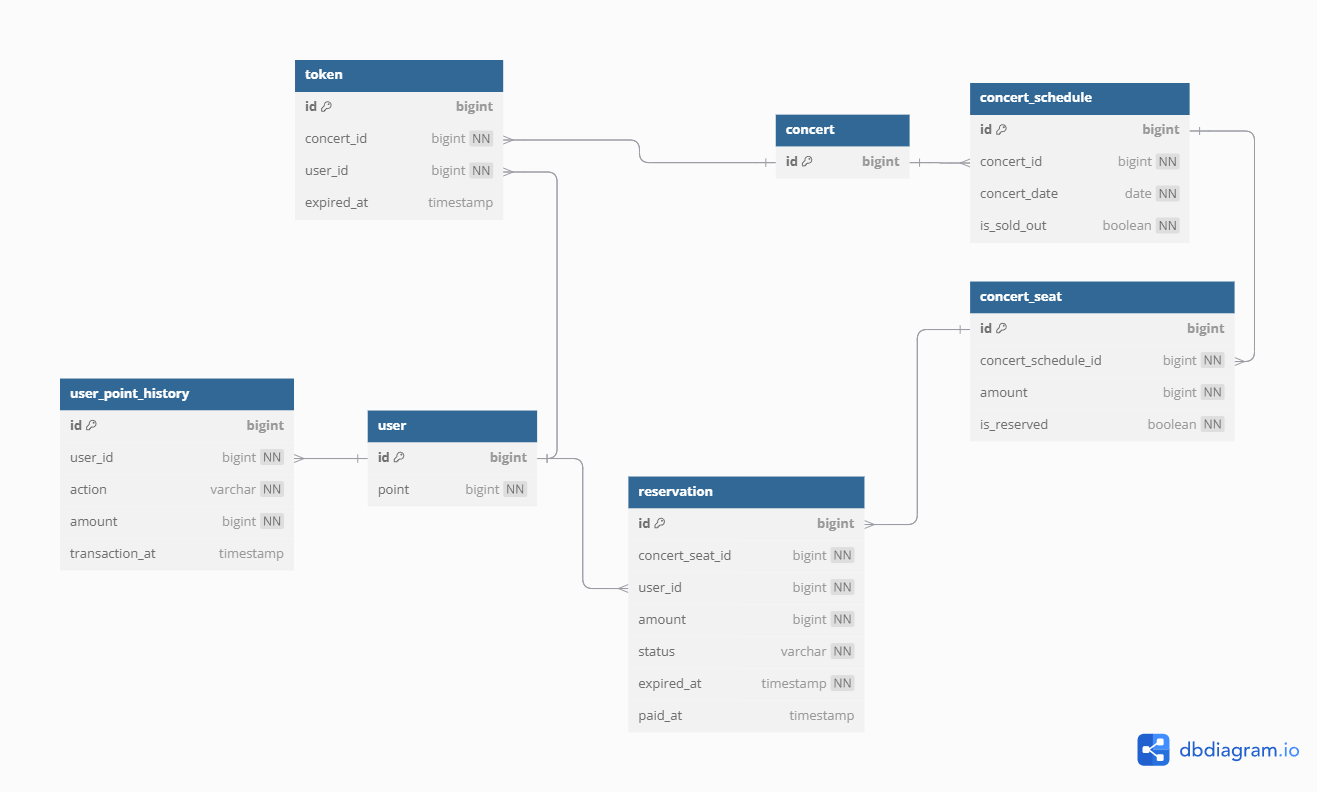
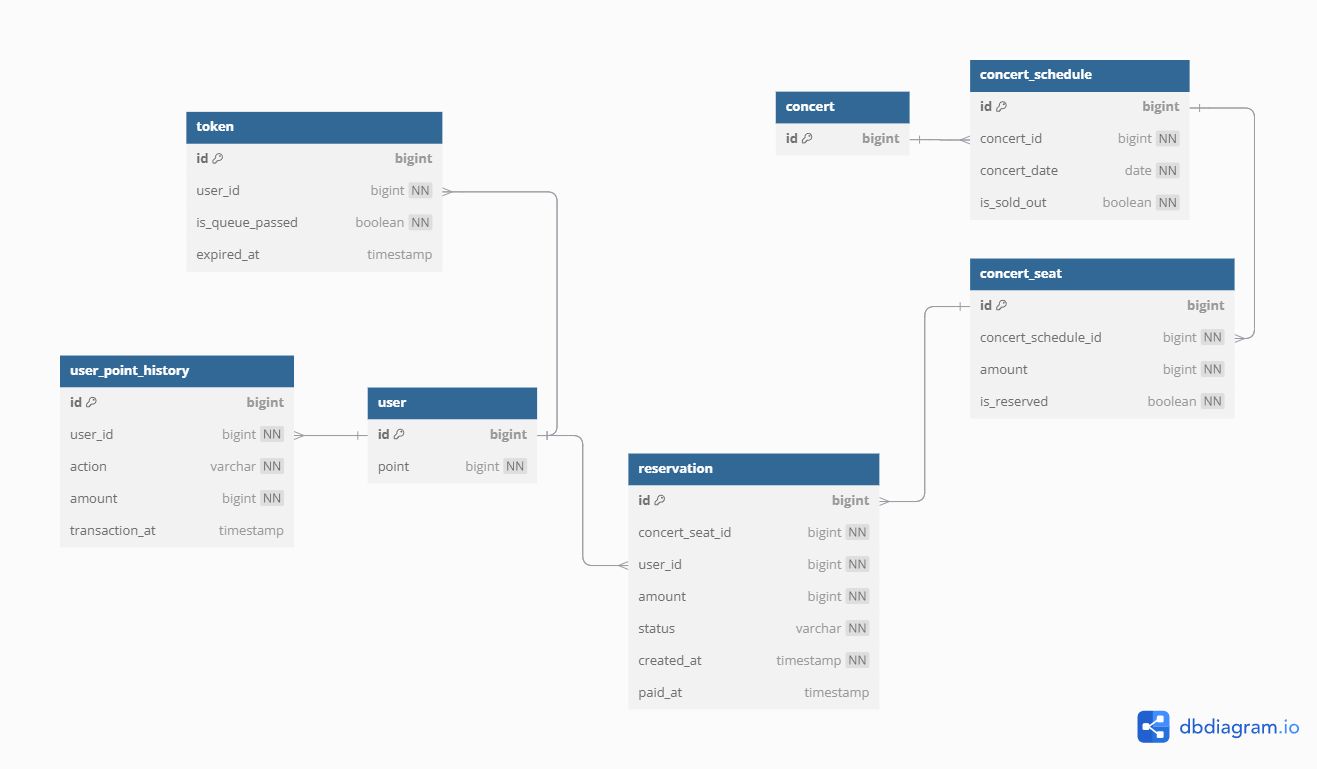
feat: 스키마 및 시퀀스 다이어그램 변경

diff --git a/src/main/java/kr/hhplus/be/server/api/token/domain/Token.java b/src/main/java/kr/hhplus/be/server/api/token/domain/Token.java
@@ -16,11 +16,9 @@ public class Token {
 	@GeneratedValue(strategy = GenerationType.IDENTITY)
 	private long id;
 
-	private long concertId;
-
 	private long userId;
 
-	private boolean isActivated;
+	private boolean isQueuePassed;
 
 	private Instant expiredAt;
 

diff --git a/docs/sequence_diagram.md b/docs/sequence_diagram.md
@@ -2,11 +2,13 @@
 ```mermaid
 sequenceDiagram
   actor A1 as 유저
-  participant Token as Token
+    participant Token as Token
+    participant Store as Store (저장소)
 
   A1 ->>+ Token: 대기열 토큰 발급 요청
-  Token ->> Token: 만료시간 10분인 토큰 발급
-  Token ->> Token: 토큰 저장
+  Token ->> Token: 만료시간(5분)을 가진 토큰 생성
+  Token ->> Store: 토큰 저장
+  Store -->> Token: 
   Token -->>- A1: 토큰 return
 ```
 
@@ -17,21 +19,27 @@ sequenceDiagram
 sequenceDiagram
   actor A1 as 유저
   participant Token as Token
-    participant Request as 요청한 서비스
+  participant Store as Store (저장소)
+  participant Request as 요청한 서비스
+  
 
   A1 ->>+ Token: API 서비스 요청
-  Token ->> Token: 토큰ID, 유저ID로 토큰 조회
-  opt 유효하지 않은 토큰이면
-    Token -->> A1: InvalidTokenException 예외 발생
-  end
-  Token ->> Token: 토큰 만료시간 체크
-  opt 토큰이 만료되었다면
-    Token -->> A1: TokenExpiredException 예외 발생
-  end
-  alt 대기열 대기중인 토큰이면
-      Token ->> Token: 토큰 만료시간 갱신 (현재시간 + 10분)
-      Token ->> Token: 갱신한 토큰 저장
-      Token -->>- A1: 갱신한 토큰 return
+    Token ->> Store: 토큰ID로 토큰 조회
+    Store -->> Token: 
+    opt 토큰이 존재하지 않으면
+        Token -->> A1: NotFoundTokenException 예외 발생
+    end
+      Token ->> Token: 토큰 만료시간 체크
+      opt 토큰이 만료되었다면
+        Token -->> A1: TokenExpiredException 예외 발생
+      end
+      alt 대기열 대기중인 토큰이면
+          alt 토큰 만료시간이 1분 미만이면
+            Token ->> Token: 토큰의 만료시간을 10분으로 갱신
+            Token ->> Store: 토큰 업데이트
+            Store -->> Token: 
+          end
+          Token -->>- A1: `X-Waiting-Token`으로 Cookie에 담아 토큰 return
       
       else 대기열 통과한 토큰이면
       Token ->>+ Request: API 요청 전달
@@ -47,11 +55,18 @@ sequenceDiagram
 sequenceDiagram
     participant Scheduler as Scheduler
     participant Token as Token
+    participant Store as Store (저장소)
 
-    loop 5초마다
+    loop 10초마다
         Scheduler ->>+ Token: 토큰 활성화 요청
-        Token ->> Token: 콘서트별 대기중인 토큰 1000개 조회
-        Token ->> Token: 조회된 토큰 활성화 후 반영
+        critical transaction
+        Token ->> Store: 콘서트별 가장 오래된 토큰 500개 조회
+        Store -->> Token: 
+        Token ->> Token: 토큰의 대기열 통과 여부 true로 변경
+            Token ->> Token: 토큰 만료시간 10분으로 갱신
+            Token ->>+ Store: 토큰 저장
+            Store -->> Token: 
+        end
         Token -->>- Scheduler: SUCCESS
     end
 ```
@@ -67,8 +82,8 @@ sequenceDiagram
 
     loop 10분마다
         Scheduler ->>+ Token: 만료된 토큰 삭제 요청
-        Token ->>+ Store: 만료시간이 지난 토큰 일괄 삭제
-        Store -->>- Token: 삭제 완료
+        Token ->> Store: 만료시간이 지난 토큰 일괄 삭제
+        Store -->> Token: 
         Token -->>- Scheduler: SUCCESS
     end
 ```
@@ -84,7 +99,7 @@ sequenceDiagram
     loop 1분마다
         Scheduler ->>+ Reservation: 만료된 예약에 대한 좌석 배정 해제 요청
         critical Transaction
-            Reservation ->> Reservation: `WAITING` 상태로 만료된 예약의 상태를 `EXPIRED`로 변경
+            Reservation ->> Reservation: 만료된 `WAITING` 상태의 예약을 `EXPIRED`로 변경
             Reservation ->>+ ConcertSeat: 만료된 예약들에 대한 좌석 배정 해제
             ConcertSeat ->> ConcertSeat: 좌석 배정 해제
         end
@@ -92,7 +107,6 @@ sequenceDiagram
         Reservation -->>- Scheduler: SUCCESS
     end
 ```
-
 
 
 ## 예약 가능 날짜 조회
@@ -165,9 +179,6 @@ sequenceDiagram
     ConcertSeat -->>- Reservation: 임시 배정된 좌석 정보 return
     Reservation ->> Reservation: 예약 내역 추가
 
-    Reservation ->>+ Token: 토큰 내역 return
-    Token -->>- Reservation: 예약 내역 return
-
   Reservation -->>- A1: 예약 정보 return
 ```
 
@@ -195,8 +206,8 @@ sequenceDiagram
   A1 ->>+ User: 잔액 충전 요청
   critical Transaction
      User ->> User: 잔액 조회 및 충전
-     User ->>+ UserPointHistory: 충전 이력 추가
-     UserPointHistory -->>- User: 추가 완료
+     User ->> UserPointHistory: 충전 이력 추가
+     UserPointHistory -->> User: 
   end
    User -->>- A1: 잔액 정보 return
 ```
@@ -230,8 +241,8 @@ sequenceDiagram
           User-->> A1: NotEnoughBalanceException 예외 발생
         end
         User ->> User: 잔액 차감
-        User ->>+ UserPointHistory: 잔액 차감 내역 추가
-        UserPointHistory -->>- User: 내역 추가 완료
+        User ->> UserPointHistory: 잔액 차감 내역 추가
+        UserPointHistory -->> User: 
         User -->>- Reservation: 잔액 차감 return
         
         note over Reservation: 2. 결제 시간 기록
@@ -243,8 +254,8 @@ sequenceDiagram
     end
     
     note over Reservation: 3. 대기열 토큰 만료
-    Reservation ->>+ Token: 대기열 토큰 만료
-    Token -->>- Reservation: 만료 처리 성공
+    Reservation ->> Token: 대기열 토큰 만료
+    Token -->> Reservation: 
     Reservation -->>- A1: 결제 내역 return
 ```
 
